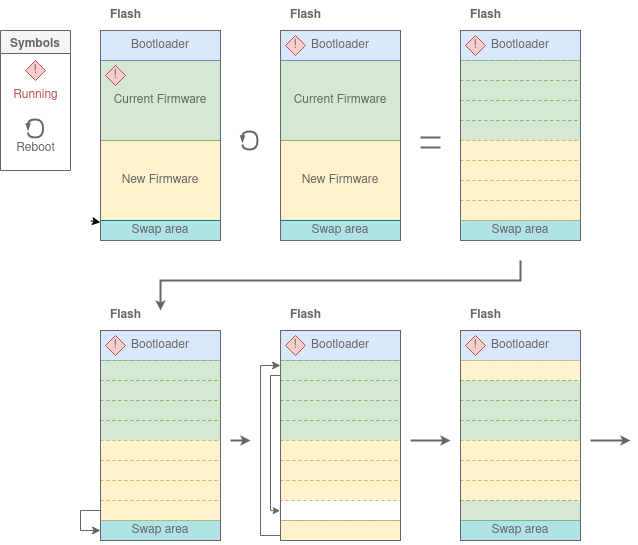
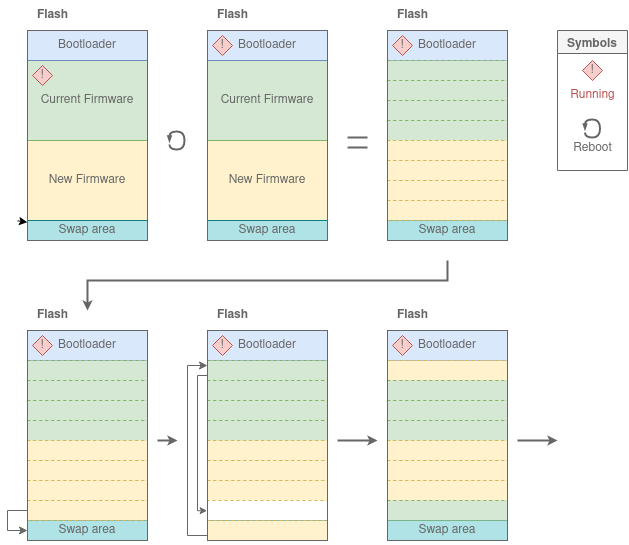
Fixed image again. Added some more explanation

diff --git a/bootloader_samples/smp/README.md b/bootloader_samples/smp/README.md
@@ -69,11 +69,11 @@ So now we have new firmware in the Second Slot. How do we get it to the Applicat
 
 When the chip boots and enters bootloader mode, the bootloader will check metadata and its settings.  
 If the bootloader is instructed to do so, it will swap the images in the primary and secondary slots.  
-A swap area of the flash or 
+To swap the images, some method is needed to not overwrite each other. 
+The figure below use a swap area, but there exist other methods for this as well. Some methods are explained in [David Browns MCUboot youtube playlist](https://www.youtube.com/watch?v=mlGduM1W-gA&list=PLHoBLXiNitjEZFbSsz9UN69L-Z5-3oaee).  
+After the images have been swapped, the bootloader will enter the primary slot, which now contains the new firmware.
 
-![Detailed Swap](../../.images/detailed_swap.png)
-![Swap Visualized](../../.images/swap.gif)
-![After Swap](../../.images/after_swap.png)
+![Swap Visualized](../../.images/swap.gif)  
 
 
 
